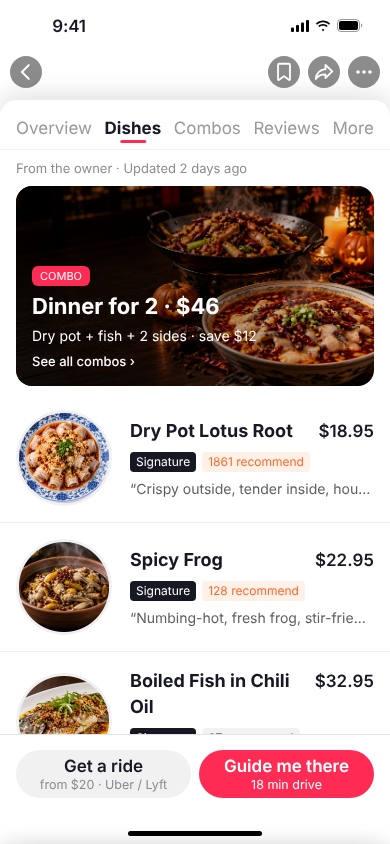
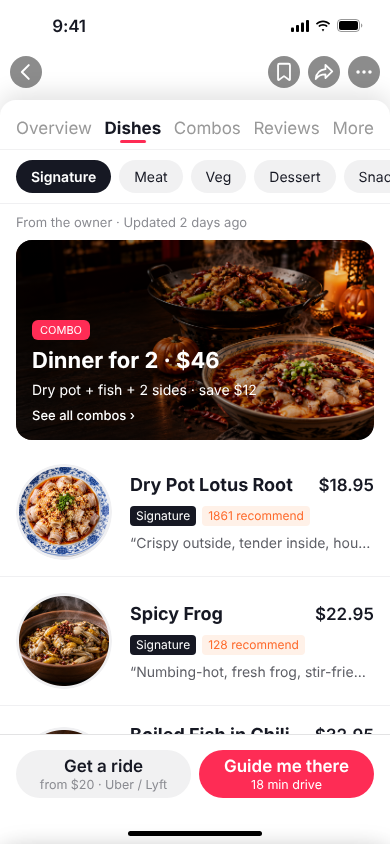
Dishes tab: add sticky category sub-nav (Signature/Meat/Veg/Dessert/Snacks/Soup) under main tabs
Claude-Session: https://claude.ai/code/session_01Q6z36aYFBjH3xCc6Ygpjkp

diff --git a/app.js b/app.js
@@ -536,7 +536,7 @@
   };
   phone.addEventListener('click', async e => {
     if (blockClick) return;
-    if(e.target.closest('[data-category],[data-page-tab],[data-sec]')) return;
+    if(e.target.closest('[data-category],[data-tabcat],[data-page-tab],[data-sec]')) return;
     const pick = e.target.closest('[data-pick]');
     if (pick) {
       const kind = S.sheet, app = pick.dataset.pick, icon = pick.querySelector('img');
@@ -610,7 +610,7 @@
   function showPlaceBody(dishes) {
     place.classList.toggle('dishes-mode',dishes);
     $('#dishesTab').hidden=!dishes;
-    if(dishes) $('#dishesList').innerHTML=listMarkup(MENU.Signature);
+    if(dishes) renderTabCategory(false);
     syncChrome();
   }
   function navigateTab(tab) {
@@ -635,13 +635,23 @@
     await anim(el,reduce?[{opacity:1},{opacity:0}]:[{transform:'translateX(0)'},{transform:'translateX(100%)'}],{duration:320,easing:IOS});
     show(prev.screen); el.getAnimations().forEach(a=>a.cancel());scroller.scrollTop=prev.top;S.busy=false;
   }
+  let tabCategory='Signature';
+  function renderTabCategory(animate=true) {
+    $('#dishesTab .chip-bar').innerHTML=Object.keys(MENU).map(c=>`<button data-tabcat="${c}" class="${c===tabCategory?'on':''}" aria-pressed="${c===tabCategory}">${c}</button>`).join('');
+    $('#dishesList').innerHTML=listMarkup(MENU[tabCategory]);
+    if(animate) $('#dishesList').animate([{opacity:0},{opacity:1}],{duration:D(180)});
+  }
+  $('#dishesTab .chip-bar').addEventListener('click',e=>{const b=e.target.closest('[data-tabcat]');if(!b)return;tabCategory=b.dataset.tabcat;renderTabCategory();
+    const bar=$('#dishesTab .chip-bar'),listTop=$('#dishesList').offsetTop-bar.offsetHeight;if(scroller.scrollTop>listTop)scroller.scrollTop=listTop;
+    bar.querySelector(`[data-tabcat="${tabCategory}"]`).scrollIntoView({block:'nearest',inline:'nearest',behavior:reduce?'auto':'smooth'});});
+  scroller.addEventListener('scroll',()=>{const bar=$('#dishesTab .chip-bar');if(bar)bar.classList.toggle('scrolled',place.classList.contains('dishes-mode')&&scroller.scrollTop>0);},{passive:true});
   function openMenu() { category='Signature'; renderCategory(); pushPage('menu'); $('.menu-scroll').scrollTop=0; }
   function renderCategory() {
     $('.category-chips').innerHTML=Object.keys(MENU).map(c=>`<button data-category="${c}" class="${c===category?'on':''}" aria-pressed="${c===category}">${c}</button>`).join('');
     $('#menuList').innerHTML=listMarkup(MENU[category],true);
     $('#menuList').animate([{opacity:0},{opacity:1}],{duration:D(180)});
   }
-  $('.category-chips').addEventListener('click',e=>{const b=e.target.closest('[data-category]');if(!b)return;category=b.dataset.category;renderCategory();$('.menu-scroll').scrollTop=0;$(`[data-category="${category}"]`).scrollIntoView({block:'nearest',inline:'nearest',behavior:reduce?'auto':'smooth'});});
+  $('.category-chips').addEventListener('click',e=>{const b=e.target.closest('[data-category]');if(!b)return;category=b.dataset.category;renderCategory();$('.menu-scroll').scrollTop=0;$(`.category-chips [data-category="${category}"]`).scrollIntoView({block:'nearest',inline:'nearest',behavior:reduce?'auto':'smooth'});});
   // main section tabs removed from the menu page (Figma 6b): header shows back + 'Dishes' only
   $('.menu-scroll').addEventListener('scroll',()=>$('.menu-sticky').classList.toggle('scrolled',$('.menu-scroll').scrollTop>0),{passive:true});
   const NEARBY=[['Masterpiece','Sichuan · Duluth · $$','4.6 (812)','6.2 mi','Also does dry pot','f4a8d.png'],["Gu’s Kitchen",'Sichuan · Chamblee · $$','4.4 (355)','2.3 mi','Closer · open now','a7c8c.png'],['Chong Qing Hot Pot','Hot pot · Duluth · $$$','4.5 (240)','7.8 mi','Group-friendly','09f0c.png'],['Tasty China II','Sichuan · Norcross · $$','4.3 (510)','8.9 mi','Famous for whole fish','984b6.png'],['Northern China Eatery','Dongbei · Doraville · $','4.5 (1200)','0.4 mi','Walkable · dumplings','09bf9.png'],['Bo Bo Garden','Cantonese · Doraville · $$','4.4 (430)','0.9 mi','Late night','f0bfd.png']];

diff --git a/index.html b/index.html
@@ -100,7 +100,7 @@
           <a class="view-all-bottom" data-act="demo">View all<span class="ic xs" data-i="chev"></span></a>
         </section>
         <section class="sec full-only" id="sec-nearby"><div class="sec-head"><h3>You may also like</h3></div><div id="nearbyRows"></div><div id="nearbyLoading"><i class="spin"></i>Loading more nearby…</div></section>
-        <section id="dishesTab" hidden><p class="owner-label">From the owner · Updated 2 days ago</p><button class="owner-combo" data-act="combos"><img src="img/figma/bcff7.png" alt="Dinner combo"><div><span>COMBO</span><h2>Dinner for 2 · $46</h2><p>Dry pot + fish + 2 sides · save $12</p><b>See all combos ›</b></div></button><div id="dishesList"></div></section>
+        <section id="dishesTab" hidden><nav class="chip-bar tab-chips" aria-label="Dish categories"></nav><p class="owner-label">From the owner · Updated 2 days ago</p><button class="owner-combo" data-act="combos"><img src="img/figma/bcff7.png" alt="Dinner combo"><div><span>COMBO</span><h2>Dinner for 2 · $46</h2><p>Dry pot + fish + 2 sides · save $12</p><b>See all combos ›</b></div></button><div id="dishesList"></div></section>
       </div>
     </div>
 

diff --git a/styles.css b/styles.css
@@ -416,3 +416,10 @@ body.mouse #phone,body.mouse #phone *{cursor:none!important}
 #place:not(.full) .sheet-scroll{padding-top:8px}
 #place:not(.full) .grabber{margin-bottom:20px}
 .name span .full-only{display:none}#place.full .name span .half-only{display:none}#place.full .name span .full-only{display:inline}
+
+/* Dishes tab (6a): category sub-nav sticks right under the main tabs */
+.chip-bar{display:flex;gap:8px;overflow-x:auto;padding:10px 16px;scrollbar-width:none}.chip-bar::-webkit-scrollbar{display:none}
+.chip-bar button{flex:none;padding:8px 15px;border-radius:24px;background:#F1F1F2;font-size:14px;white-space:nowrap;transition:background .18s,color .18s}
+.chip-bar .on{background:#161823;color:#fff;font-weight:600}
+.tab-chips{position:sticky;top:0;z-index:3;background:#fff;border-bottom:1px solid #F0F0F2;touch-action:pan-x}
+.tab-chips.scrolled{box-shadow:0 2px 6px #0000000f}
